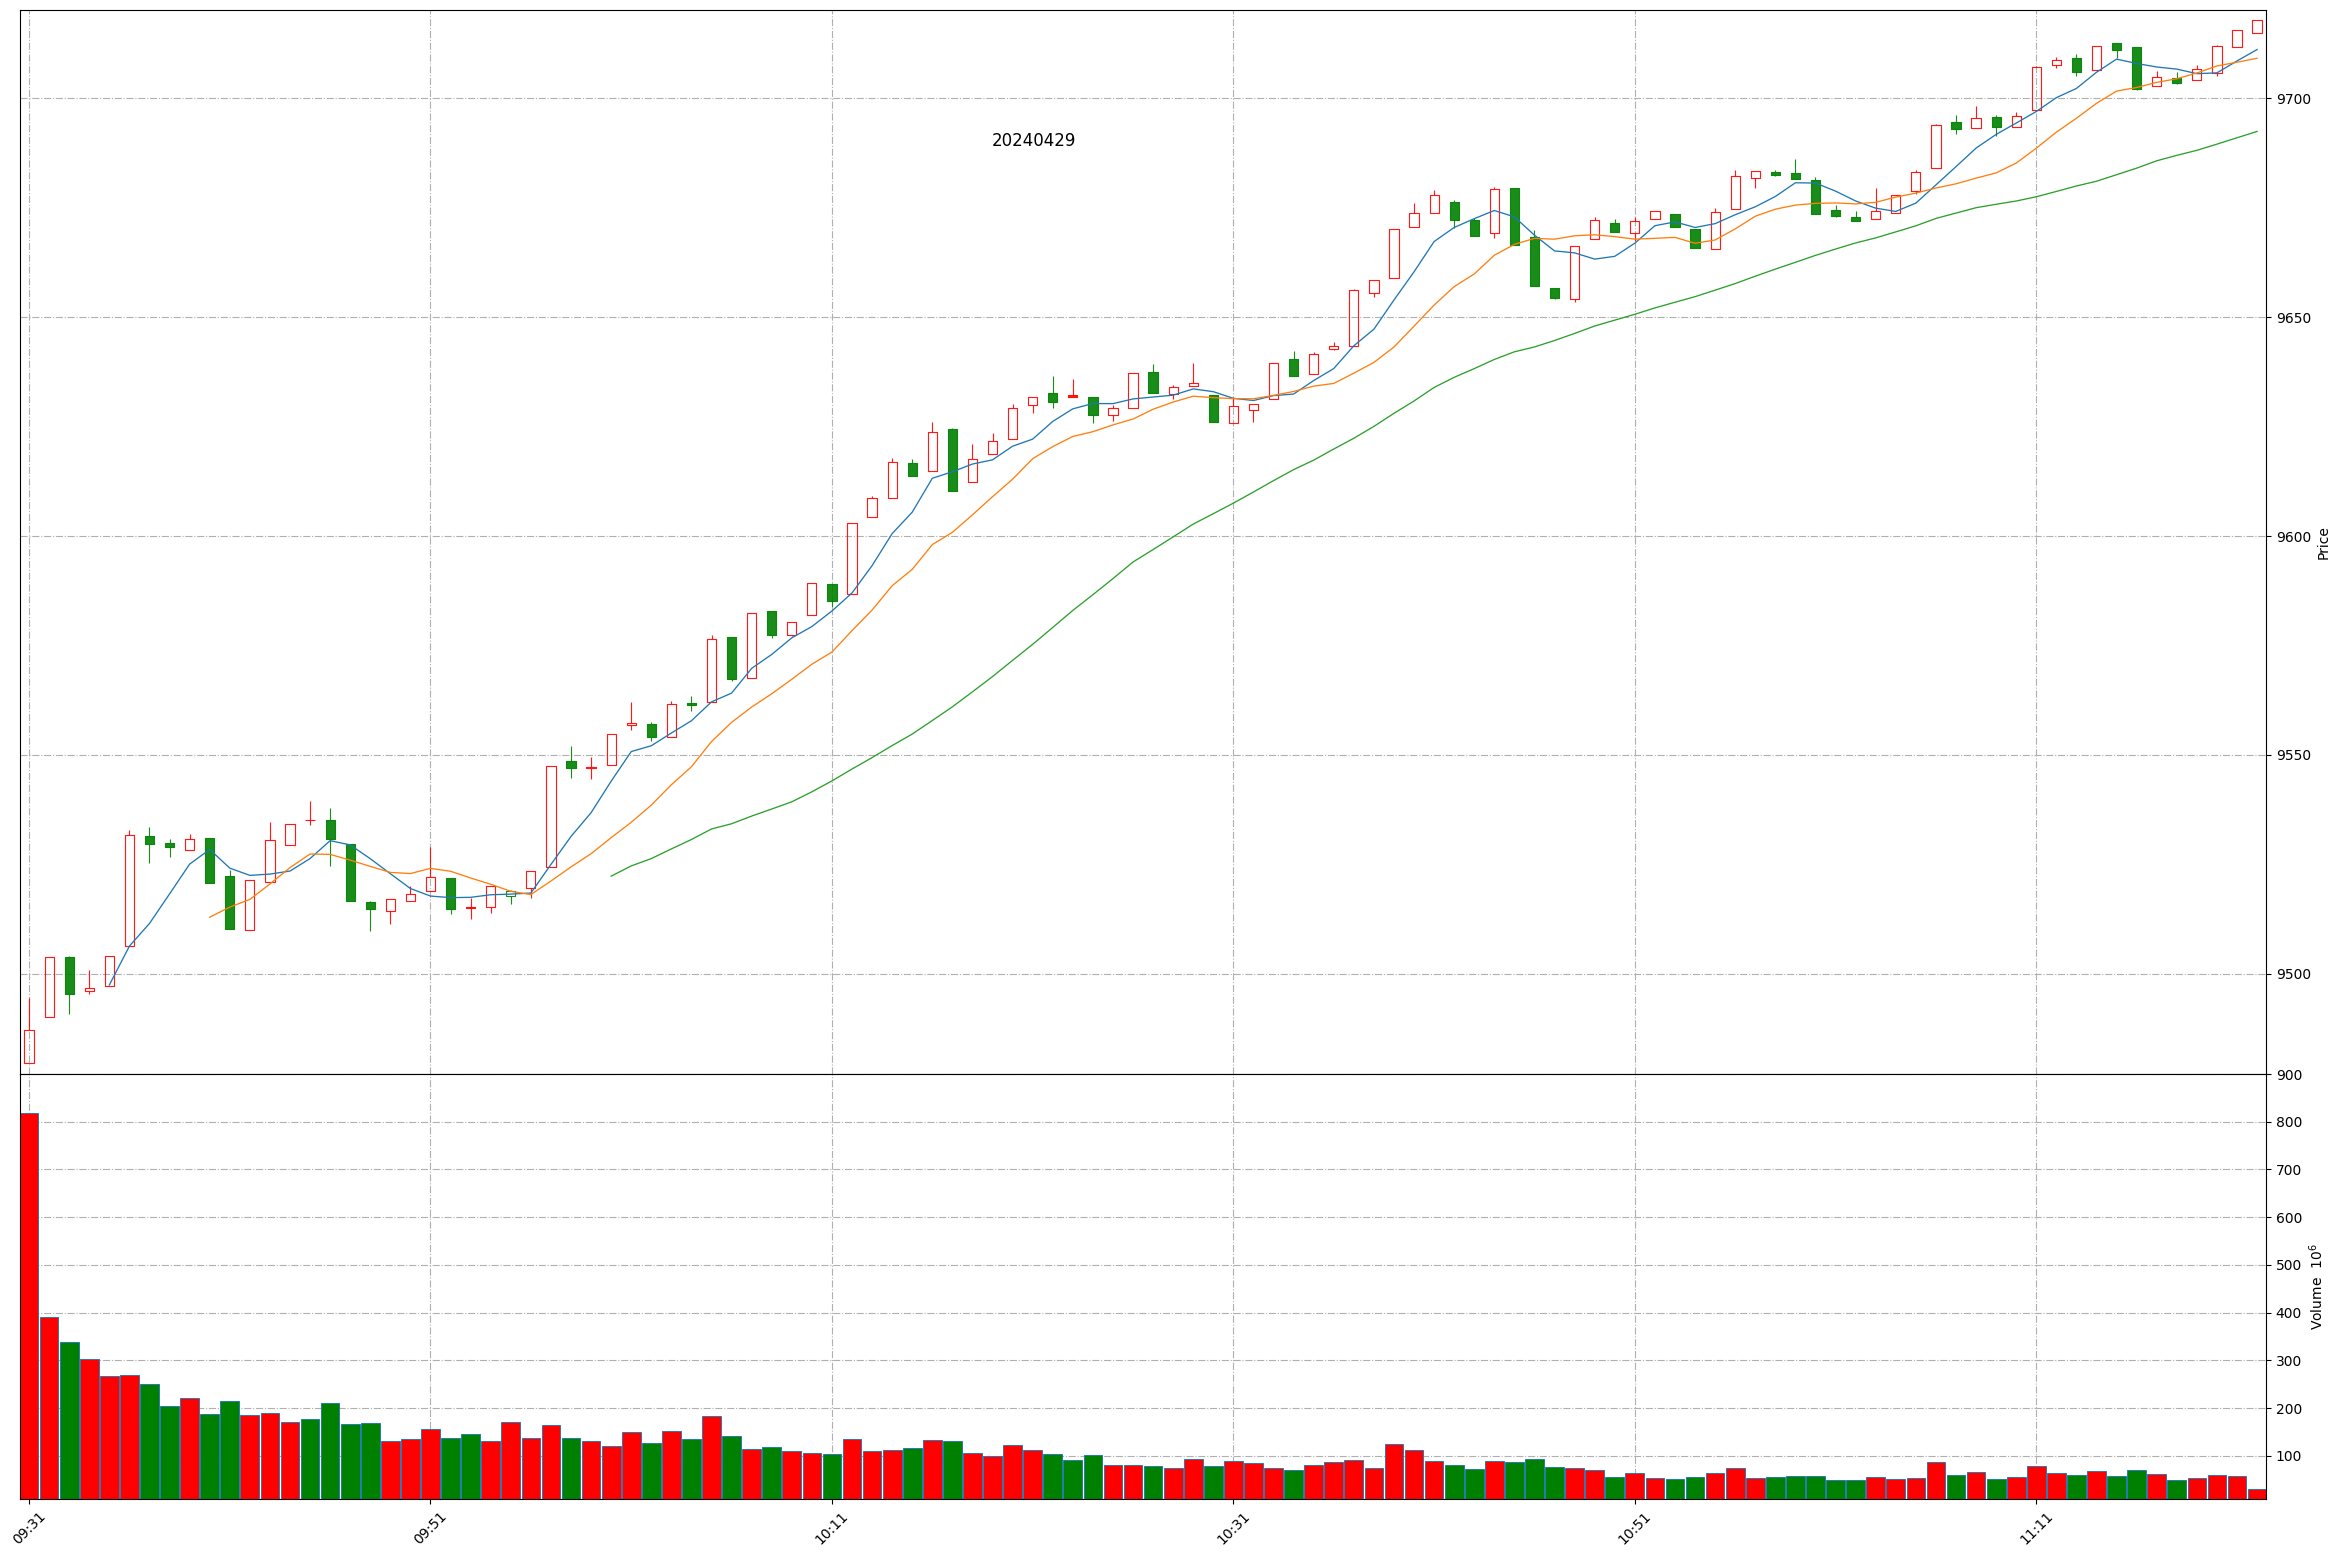
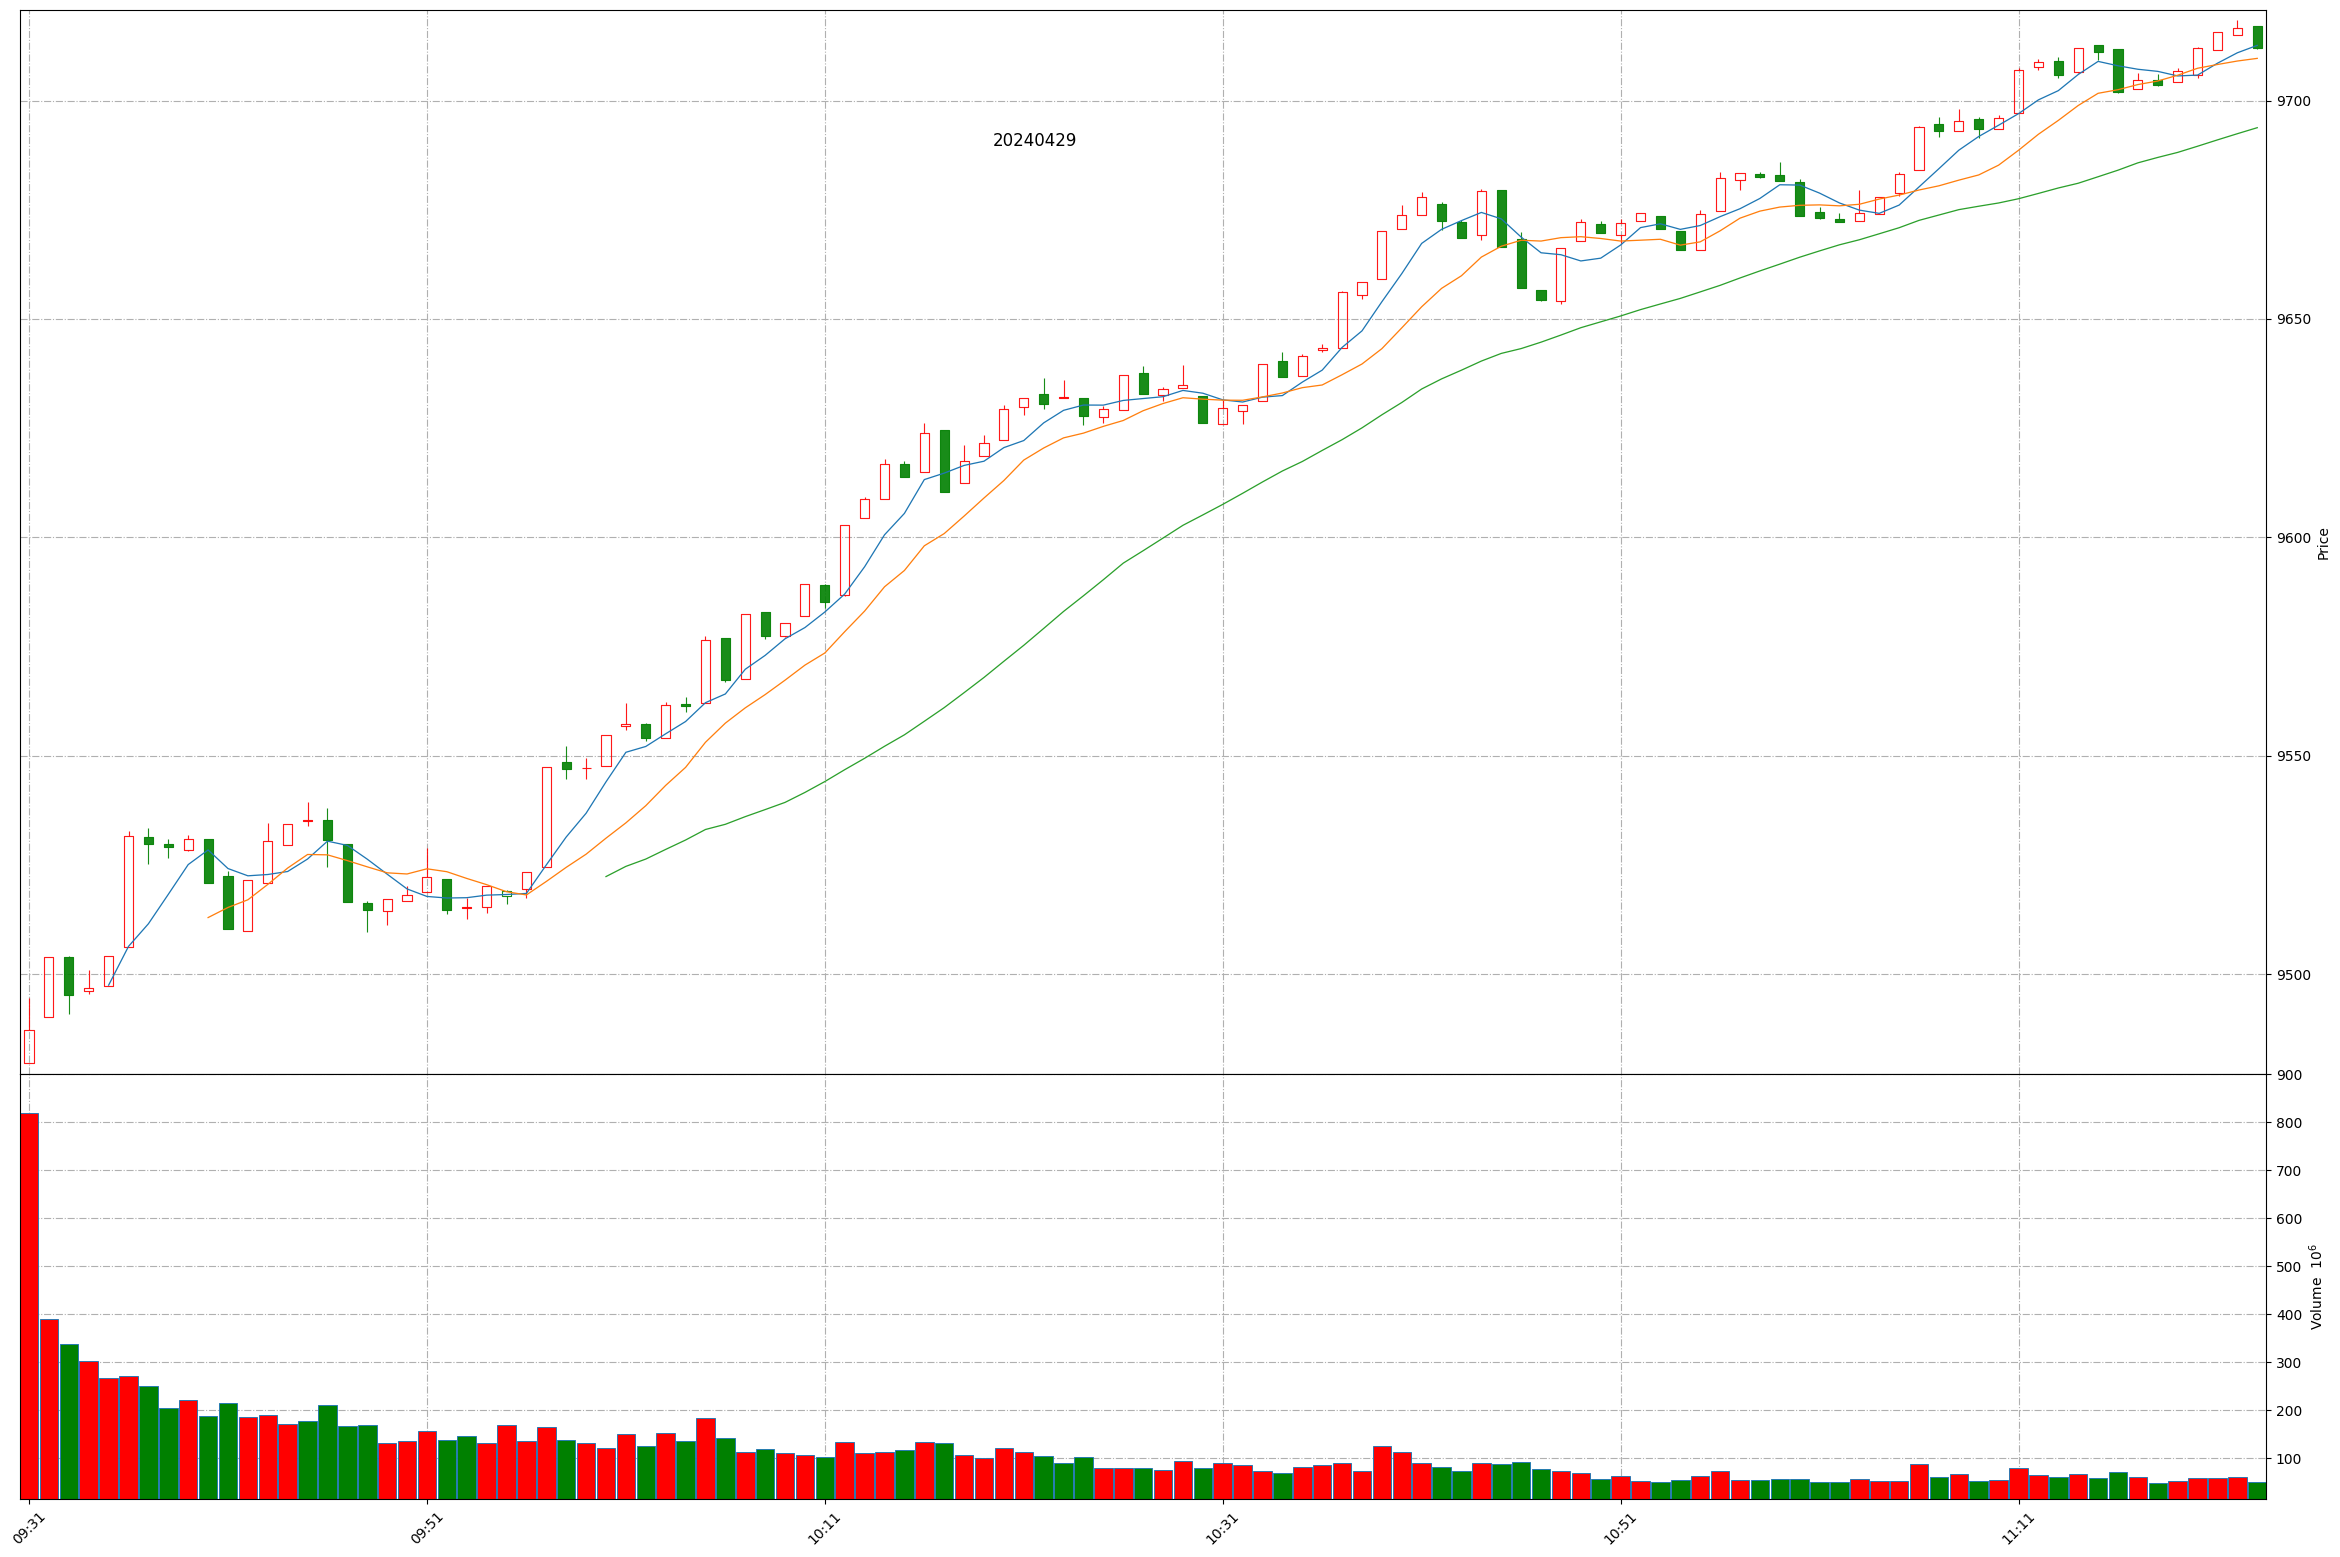
Github action update at 2024-04-29 11:23:16.

diff --git a/README.md b/README.md
@@ -1,11 +1,11 @@
 
 # Daily-A-share-market-quotes 每日 A 股指数（5min 更新）- 20240429
 
-### 上证指数 20240429 11:21
+### 上证指数 20240429 11:23
 ![](./fig/2024/4/20240429-sh000001.png)
 
-### 深证成指 20240429 11:21
+### 深证成指 20240429 11:23
 ![](./fig/2024/4/20240429-sz399001.png)
 
-### 北证50 20240429 11:21
+### 北证50 20240429 11:23
 ![](./fig/2024/4/20240429-bj899050.png)
